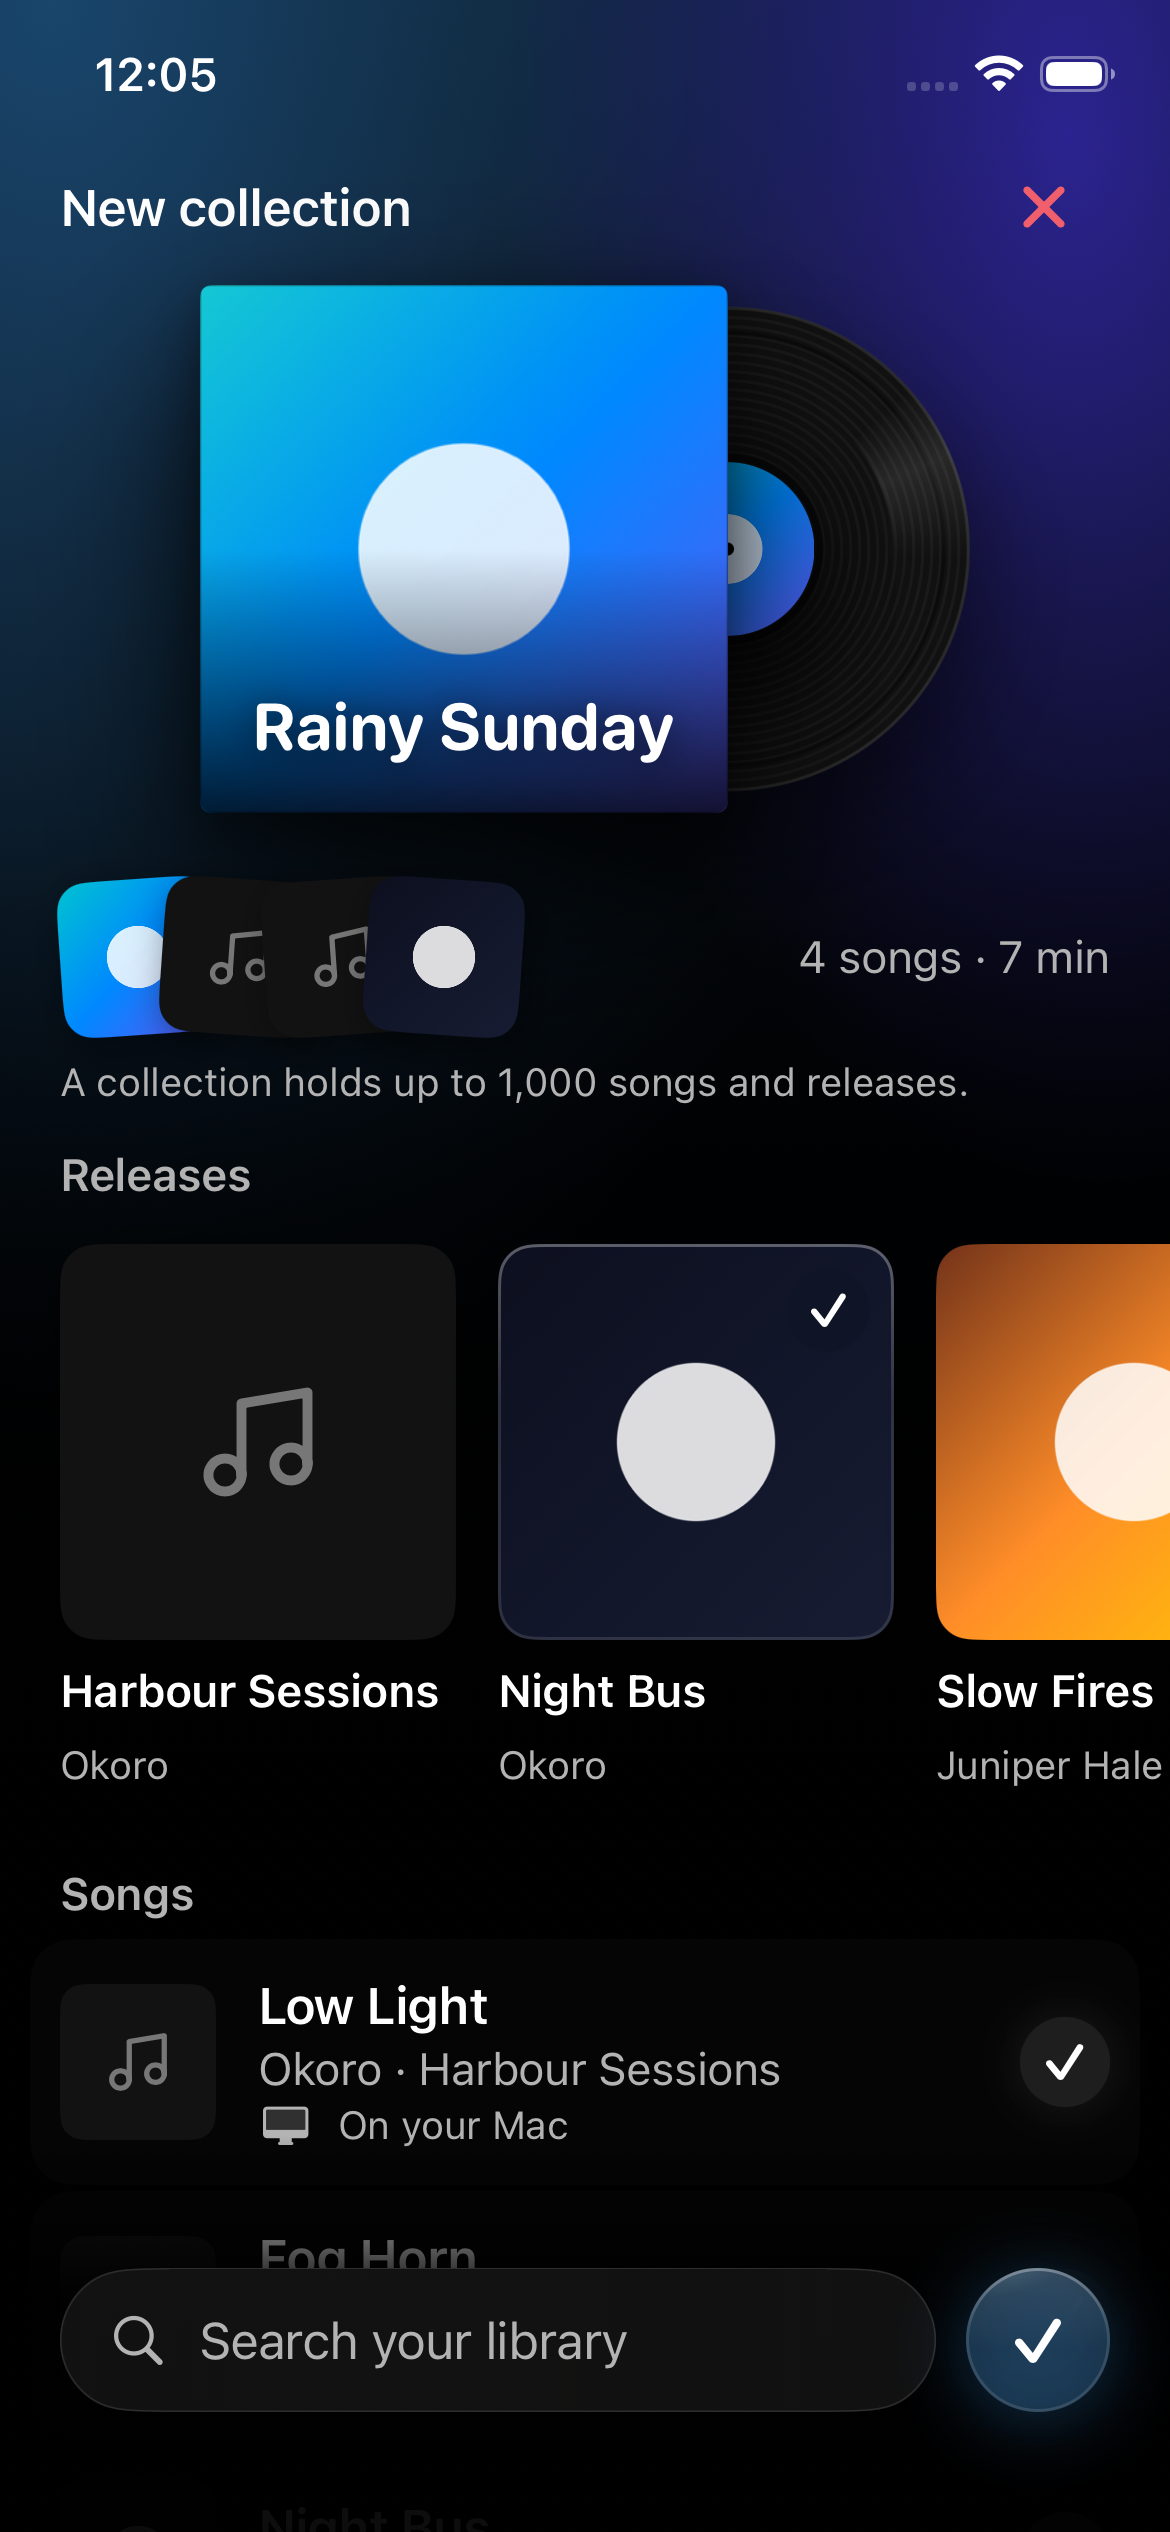
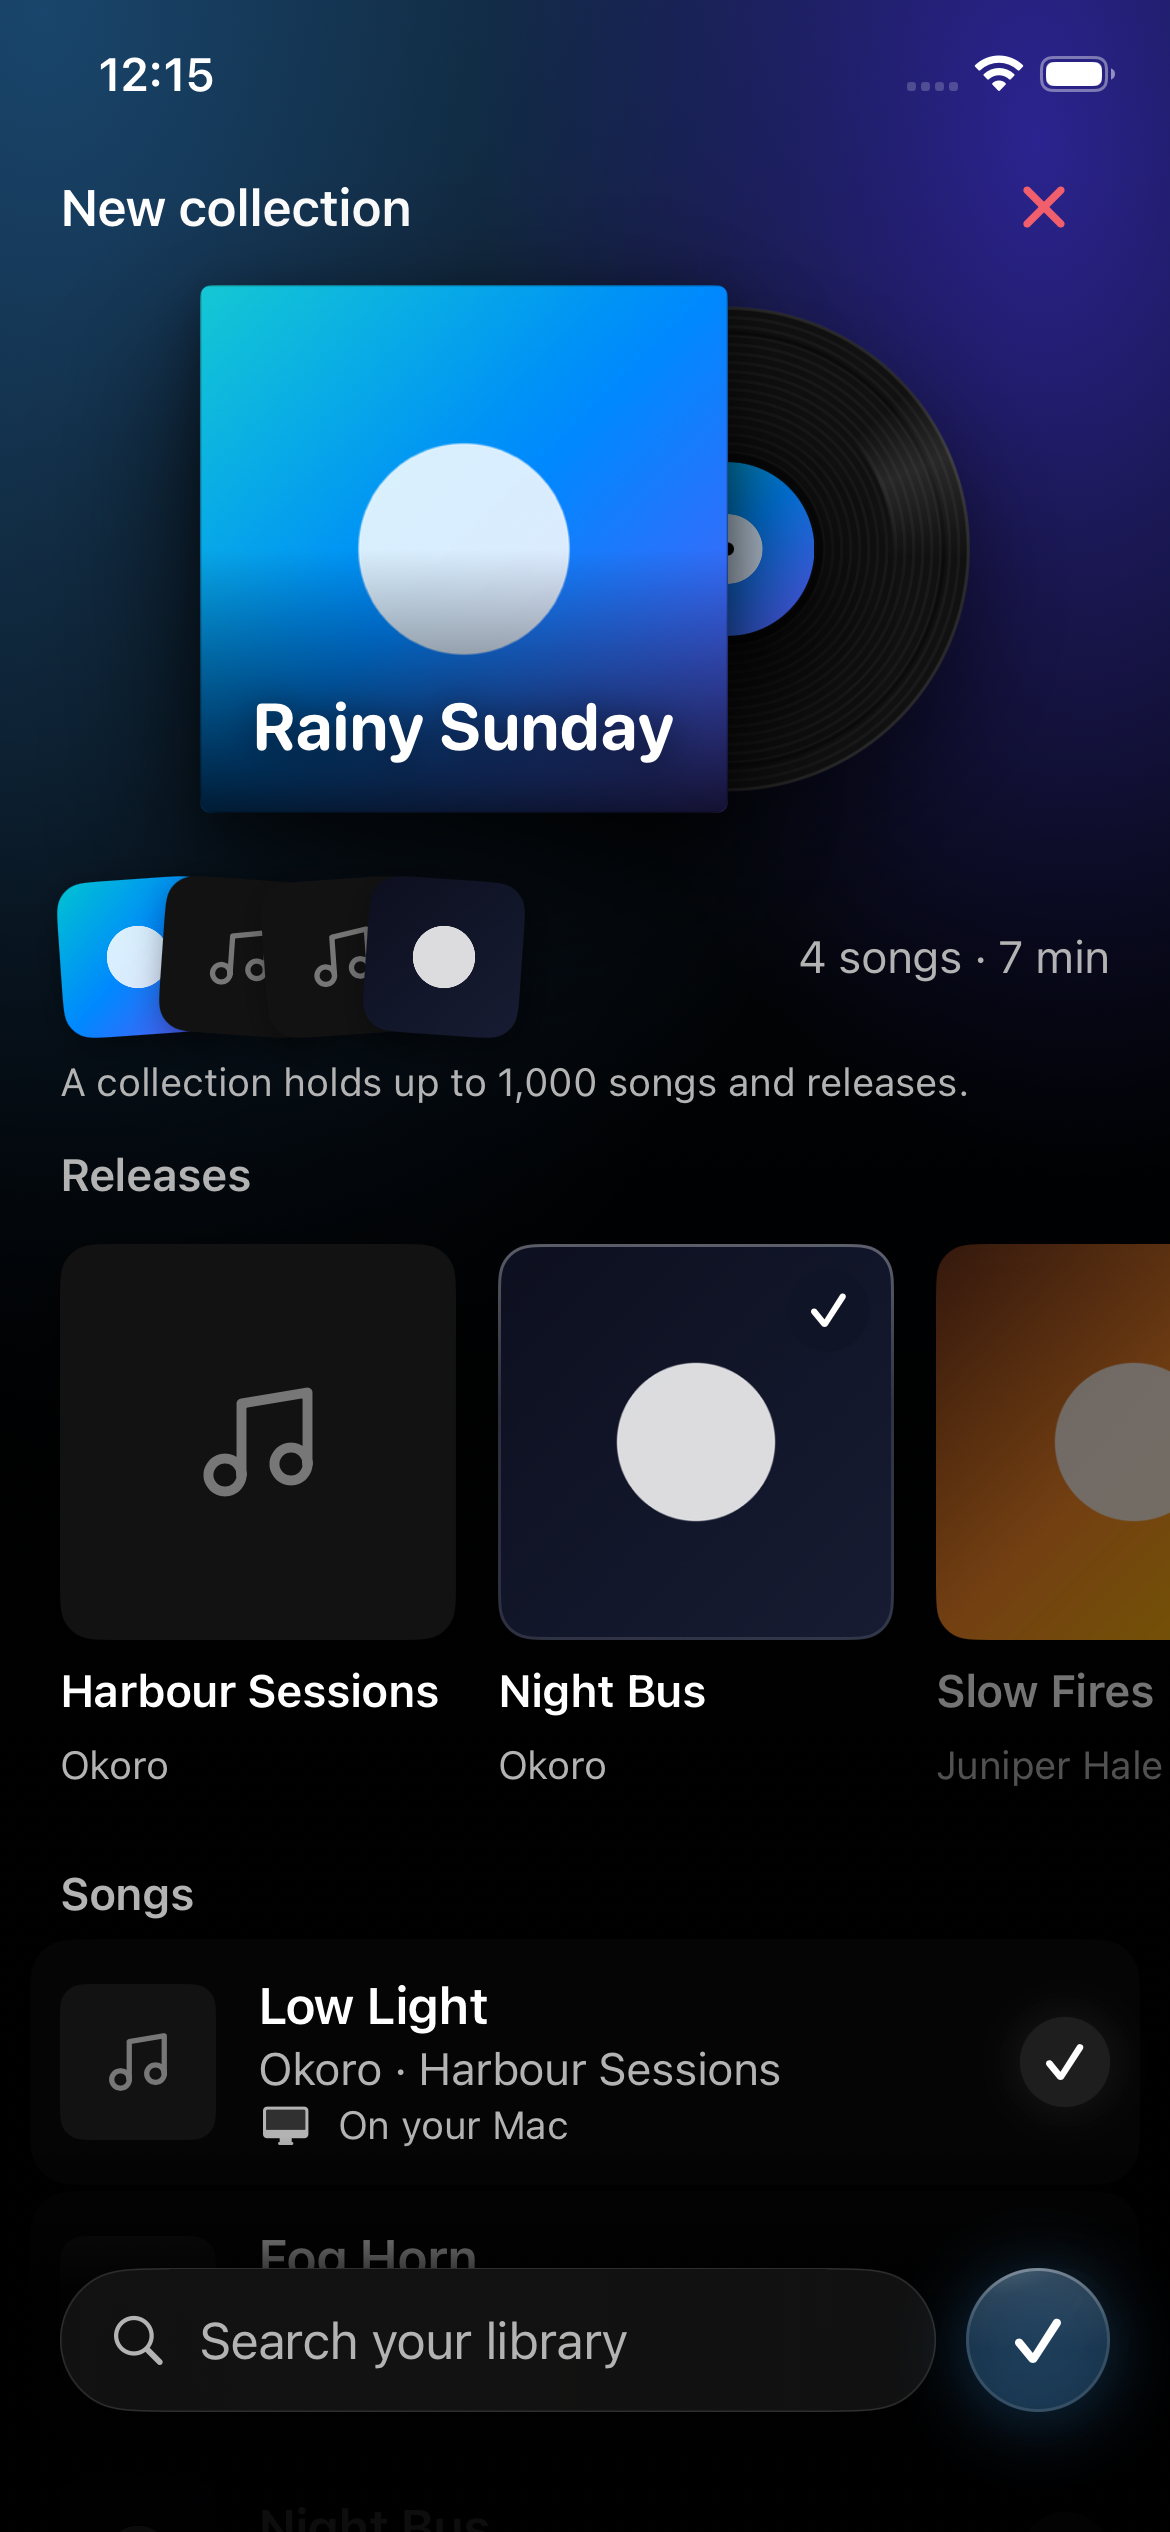
Collection builder: blocked picks look and read as unavailable when full (#366)
Claude-Session: https://claude.ai/code/session_01NeXGzQ5gYG6DzPD3bPBBBq

Changed region(s): [[0.8, 0.468, 1.0, 0.7176], [0.0923, 0.0, 0.1846, 0.0312]]

diff --git a/apps/ios/Locally/Views/Collections/CollectionBuilderView.swift b/apps/ios/Locally/Views/Collections/CollectionBuilderView.swift
@@ -561,6 +561,7 @@ private struct BuilderShelfCover: View {
     private var pick: BuilderPick { BuilderPick(releaseID: release.id) }
     private var state: BuilderRowState { draft.state(of: pick) }
     private var isOn: Bool { state != .off }
+    private var blocked: Bool { state == .off && !draft.canPick(pick) }
     private var tint: Color { art.accent(release.id) }
 
     private var label: String {
@@ -568,6 +569,7 @@ private struct BuilderShelfCover: View {
         if release.source == .adopted { parts.append(Copy.Collections.onYourMac) }
         if state == .existing { parts.append(Copy.CollectionBuilder.inCollection.lowercased()) }
         else if isOn { parts.append(Copy.CollectionBuilder.added.lowercased()) }
+        else if blocked { parts.append(Copy.CollectionBuilder.fullShort) }
         return parts.joined(separator: ", ")
     }
 
@@ -599,14 +601,15 @@ private struct BuilderShelfCover: View {
                     .foregroundStyle(Theme.secondaryText)
             }
             .frame(width: side, alignment: .topLeading)
+            .opacity(blocked ? 0.45 : 1)
             .contentShape(Rectangle())
             .animation(Theme.Builder.ease, value: state)
         }
         .buttonStyle(BuilderPressStyle())
-        .disabled(state == .existing)
+        .disabled(state == .existing || blocked)
         .accessibilityElement(children: .ignore)
         .accessibilityLabel(label)
-        .accessibilityHint(isOn ? "" : Copy.CollectionBuilder.add(release.title))
+        .accessibilityHint(isOn ? "" : (blocked ? Copy.CollectionBuilder.full : Copy.CollectionBuilder.add(release.title)))
         .accessibilityAddTraits(isOn ? .isSelected : [])
         .task(id: isOn) { if isOn { await art.loadAccent(release.id) } }
     }
@@ -625,6 +628,7 @@ private struct BuilderSongRow: View {
     private var pick: BuilderPick { BuilderPick(releaseID: release.id, trackID: track.id) }
     private var state: BuilderRowState { draft.state(of: pick) }
     private var isOn: Bool { state != .off }
+    private var blocked: Bool { state == .off && !draft.canPick(pick) }
     private var tint: Color { art.accent(release.id) }
     private var isAdopted: Bool { release.source == .adopted }
 
@@ -637,6 +641,7 @@ private struct BuilderSongRow: View {
         if isAdopted { parts.append(Copy.Collections.onYourMac) }
         if state == .existing { parts.append(Copy.CollectionBuilder.inCollection.lowercased()) }
         else if isOn { parts.append(Copy.CollectionBuilder.added.lowercased()) }
+        else if blocked { parts.append(Copy.CollectionBuilder.fullShort) }
         return parts.joined(separator: ", ")
     }
 
@@ -673,14 +678,15 @@ private struct BuilderSongRow: View {
                 RoundedRectangle(cornerRadius: 14, style: .continuous)
                     .fill(tint.opacity(state == .on ? 0.12 : 0))
             }
+            .opacity(blocked ? 0.45 : 1)
             .contentShape(Rectangle())
             .animation(Theme.Builder.ease, value: state)
         }
         .buttonStyle(BuilderPressStyle())
-        .disabled(state == .existing || state == .viaRelease)
+        .disabled(state == .existing || state == .viaRelease || blocked)
         .accessibilityElement(children: .ignore)
         .accessibilityLabel(label)
-        .accessibilityHint(isOn ? "" : Copy.CollectionBuilder.add(track.title))
+        .accessibilityHint(isOn ? "" : (blocked ? Copy.CollectionBuilder.full : Copy.CollectionBuilder.add(track.title)))
         .accessibilityAddTraits(isOn ? .isSelected : [])
         .task(id: isOn) { if isOn { await art.loadAccent(release.id) } }
     }
@@ -697,7 +703,7 @@ private struct BuilderSongRow: View {
                 Circle().strokeBorder(Color.white.opacity(0.35), lineWidth: 1)
                 Image(systemName: "plus")
                     .font(.system(size: 13, weight: .semibold))
-                    .foregroundStyle(Color.white.opacity(0.7))
+                    .foregroundStyle(Color.white.opacity(blocked ? 0.35 : 0.7))
             }
             .frame(width: size, height: size)
             .accessibilityHidden(true)

diff --git a/apps/ios/Locally/Views/Collections/BuilderDraft.swift b/apps/ios/Locally/Views/Collections/BuilderDraft.swift
@@ -144,6 +144,15 @@ final class BuilderDraft {
         return ids
     }
 
+    /// Whether a tap on this pick would do something: an unpicked one that fits (a release counts the room its picked songs free), or a picked one, which a tap removes.
+    func canPick(_ pick: BuilderPick) -> Bool {
+        switch state(of: pick) {
+        case .existing, .viaRelease: return false
+        case .on: return true
+        case .off: return fits(pick)
+        }
+    }
+
     // MARK: Editing
 
     /// A tap. An existing item, a song of a picked release, or an unpicked row once the collection is full does nothing; a release replaces its picked songs.
@@ -152,7 +161,7 @@ final class BuilderDraft {
         case .existing, .viaRelease: return
         case .on: picks.removeAll { $0 == pick }
         case .off:
-            guard fits(pick) else { return }
+            guard canPick(pick) else { return }
             if pick.trackID == nil { picks.removeAll { $0.releaseID == pick.releaseID } }
             picks.append(pick)
         }

diff --git a/apps/ios/LocallyTests/BuilderDraftTests.swift b/apps/ios/LocallyTests/BuilderDraftTests.swift
@@ -211,6 +211,20 @@ struct BuilderDraftTests {
         #expect(draft.picks == expected)
     }
 
+    @Test func atCapacityOnlyAPickedRowOrAFreeingReleaseCanBePicked() {
+        let draft = BuilderDraft(releases: [Self.heldAlbum, Self.single], name: "Mix", limit: 2)
+        draft.toggle(song(Self.heldAlbum, 0))
+        draft.toggle(song(Self.heldAlbum, 1))
+        let unpickedSong: Bool = draft.canPick(song(Self.single))
+        let removing: Bool = draft.canPick(song(Self.heldAlbum, 0))
+        let freeing: Bool = draft.canPick(whole(Self.heldAlbum))
+        let unpickedRelease: Bool = draft.canPick(whole(Self.single))
+        #expect(unpickedSong == false)
+        #expect(removing == true)
+        #expect(freeing == true)
+        #expect(unpickedRelease == false)
+    }
+
     @Test func anEmptyQueryReturnsEverySongInOrder() {
         let draft = draft()
         let titles: [String] = draft.songMatches.map(\.track.title)

diff --git a/apps/ios/Locally/Resources/Copy.swift b/apps/ios/Locally/Resources/Copy.swift
@@ -1031,6 +1031,8 @@ extension Copy {
         static let searchLabel = searchPlaceholder
         /// The quiet line under the summary when no more fits.
         static let full = "A collection holds up to 1,000 songs and releases."
+        /// Spoken after an unpicked row's name once no more fits.
+        static let fullShort = "collection full"
         static let notAllSaved = "Not everything fits in this collection, so nothing was saved. Remove a pick and try again."
         static let ok = "OK"
         static let discardAdditionsTitle = "Discard these additions?"
